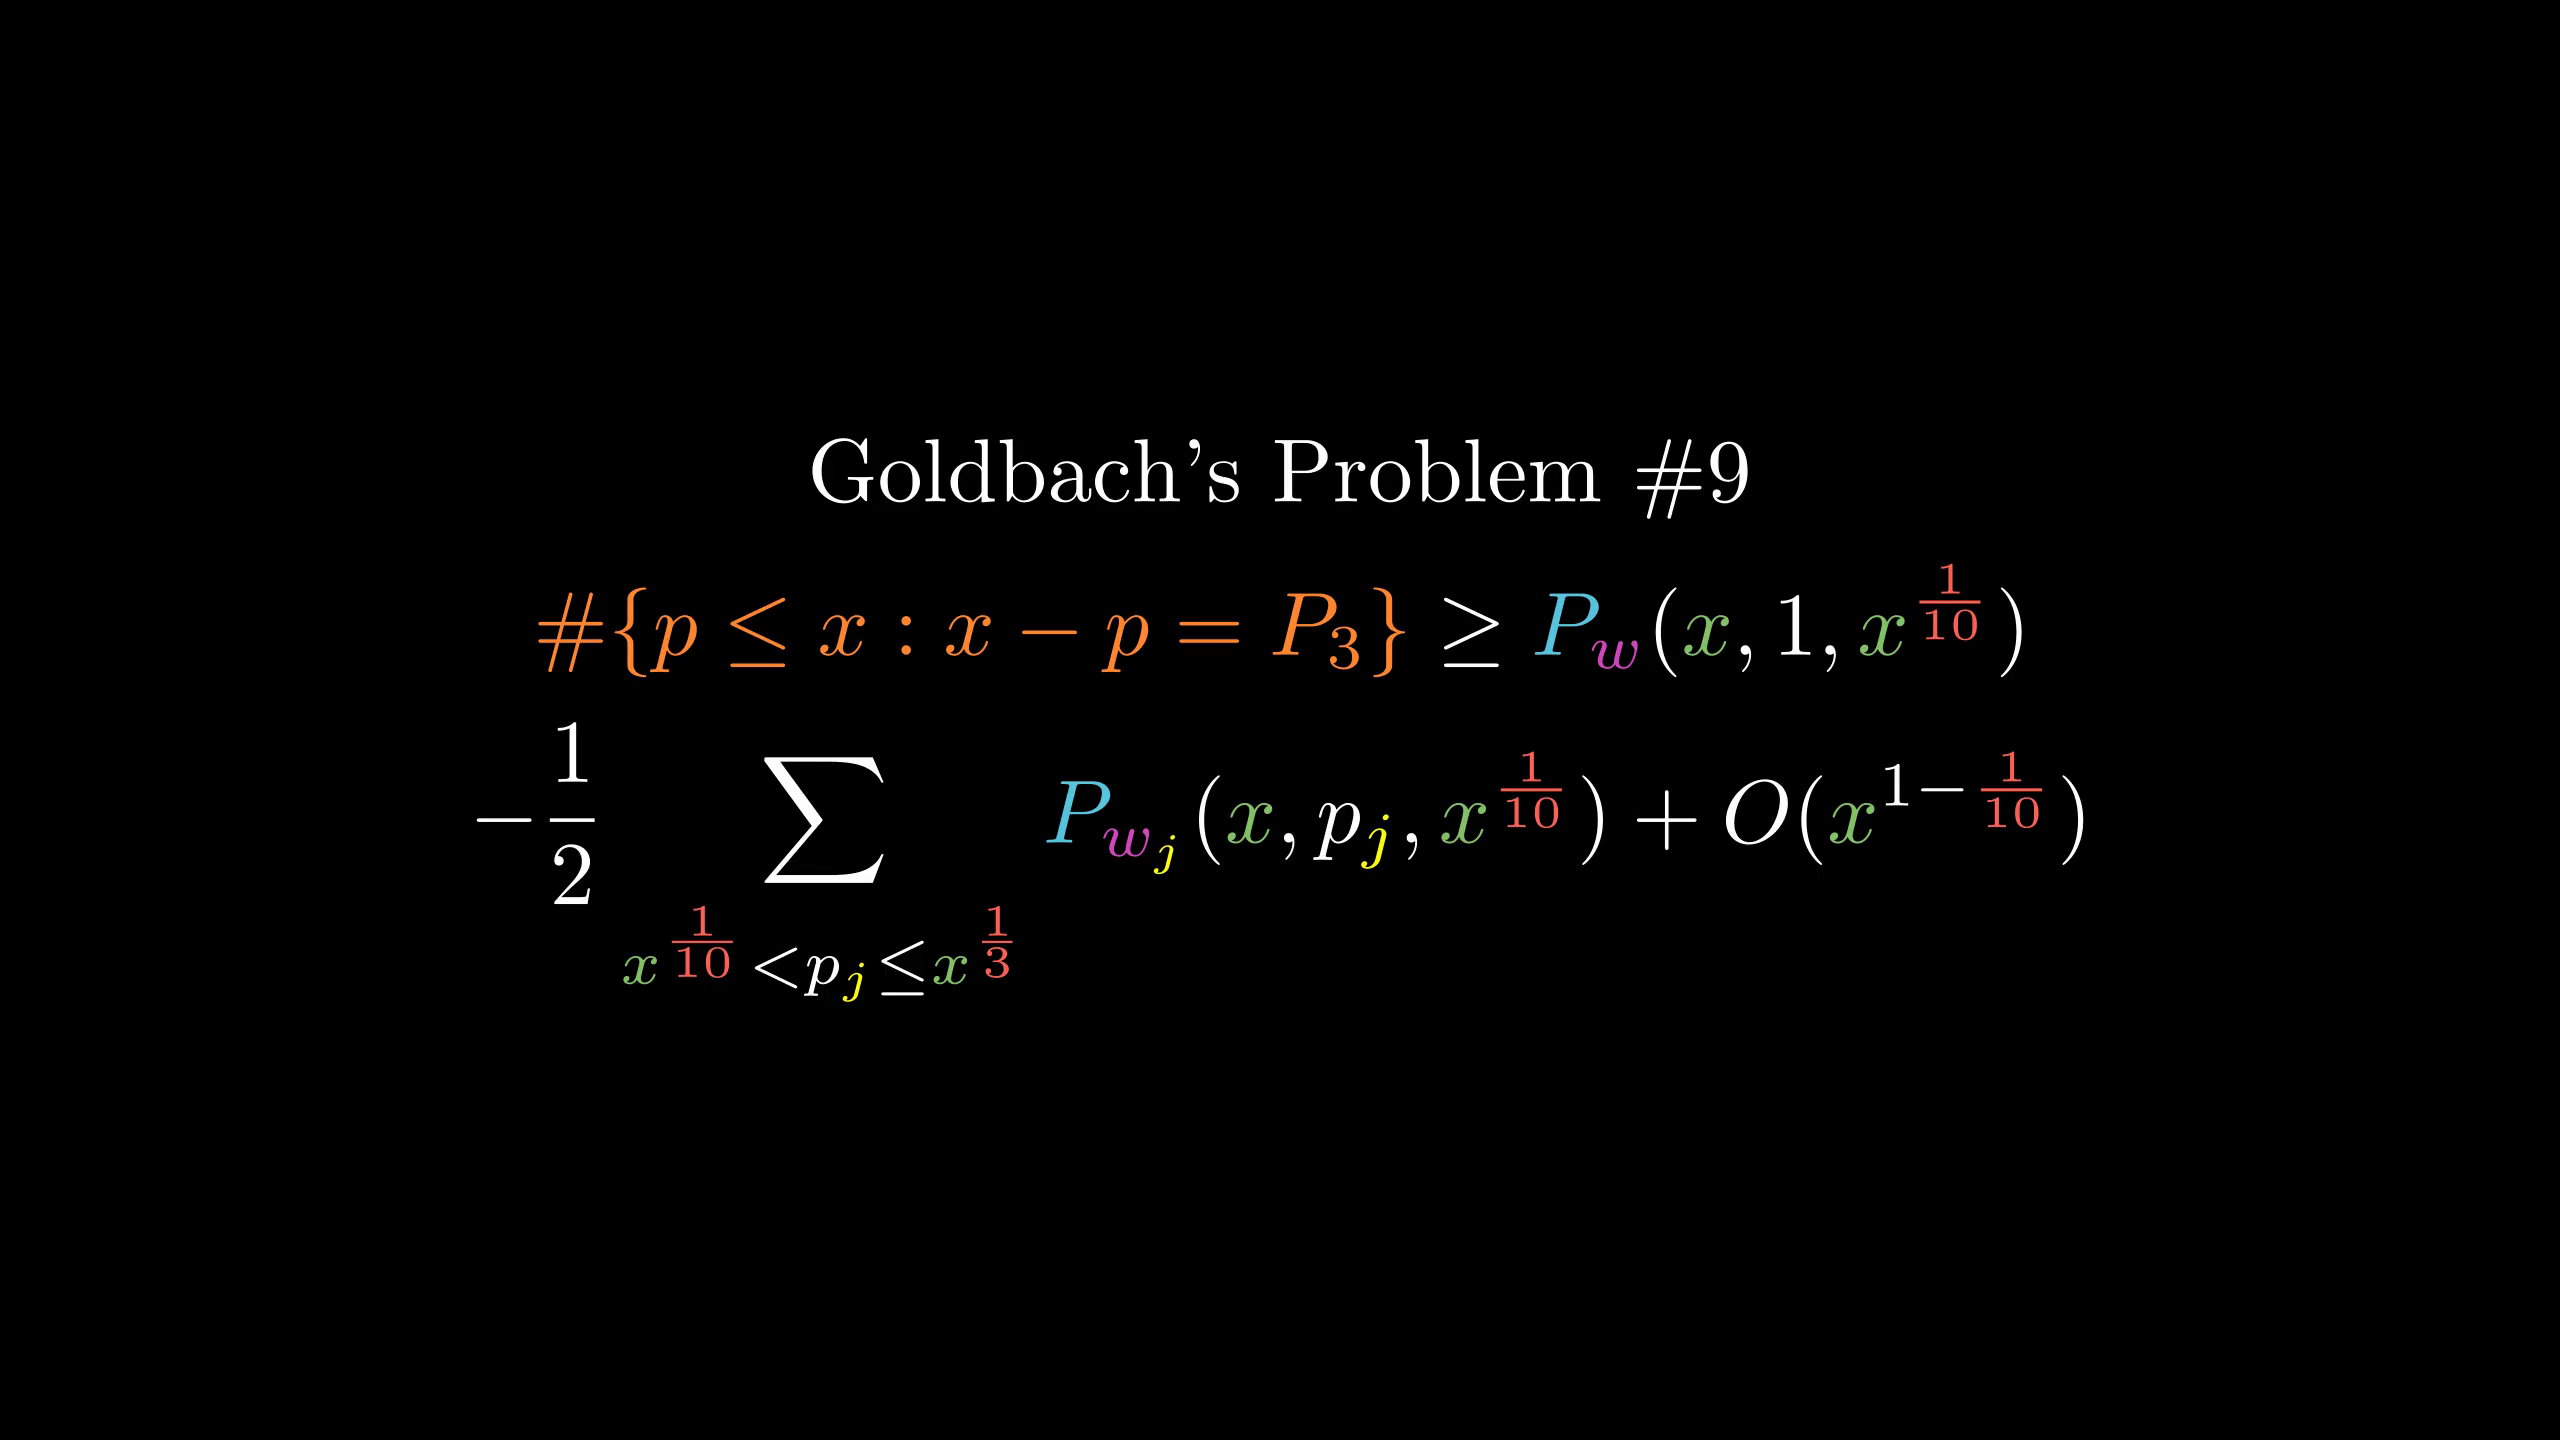
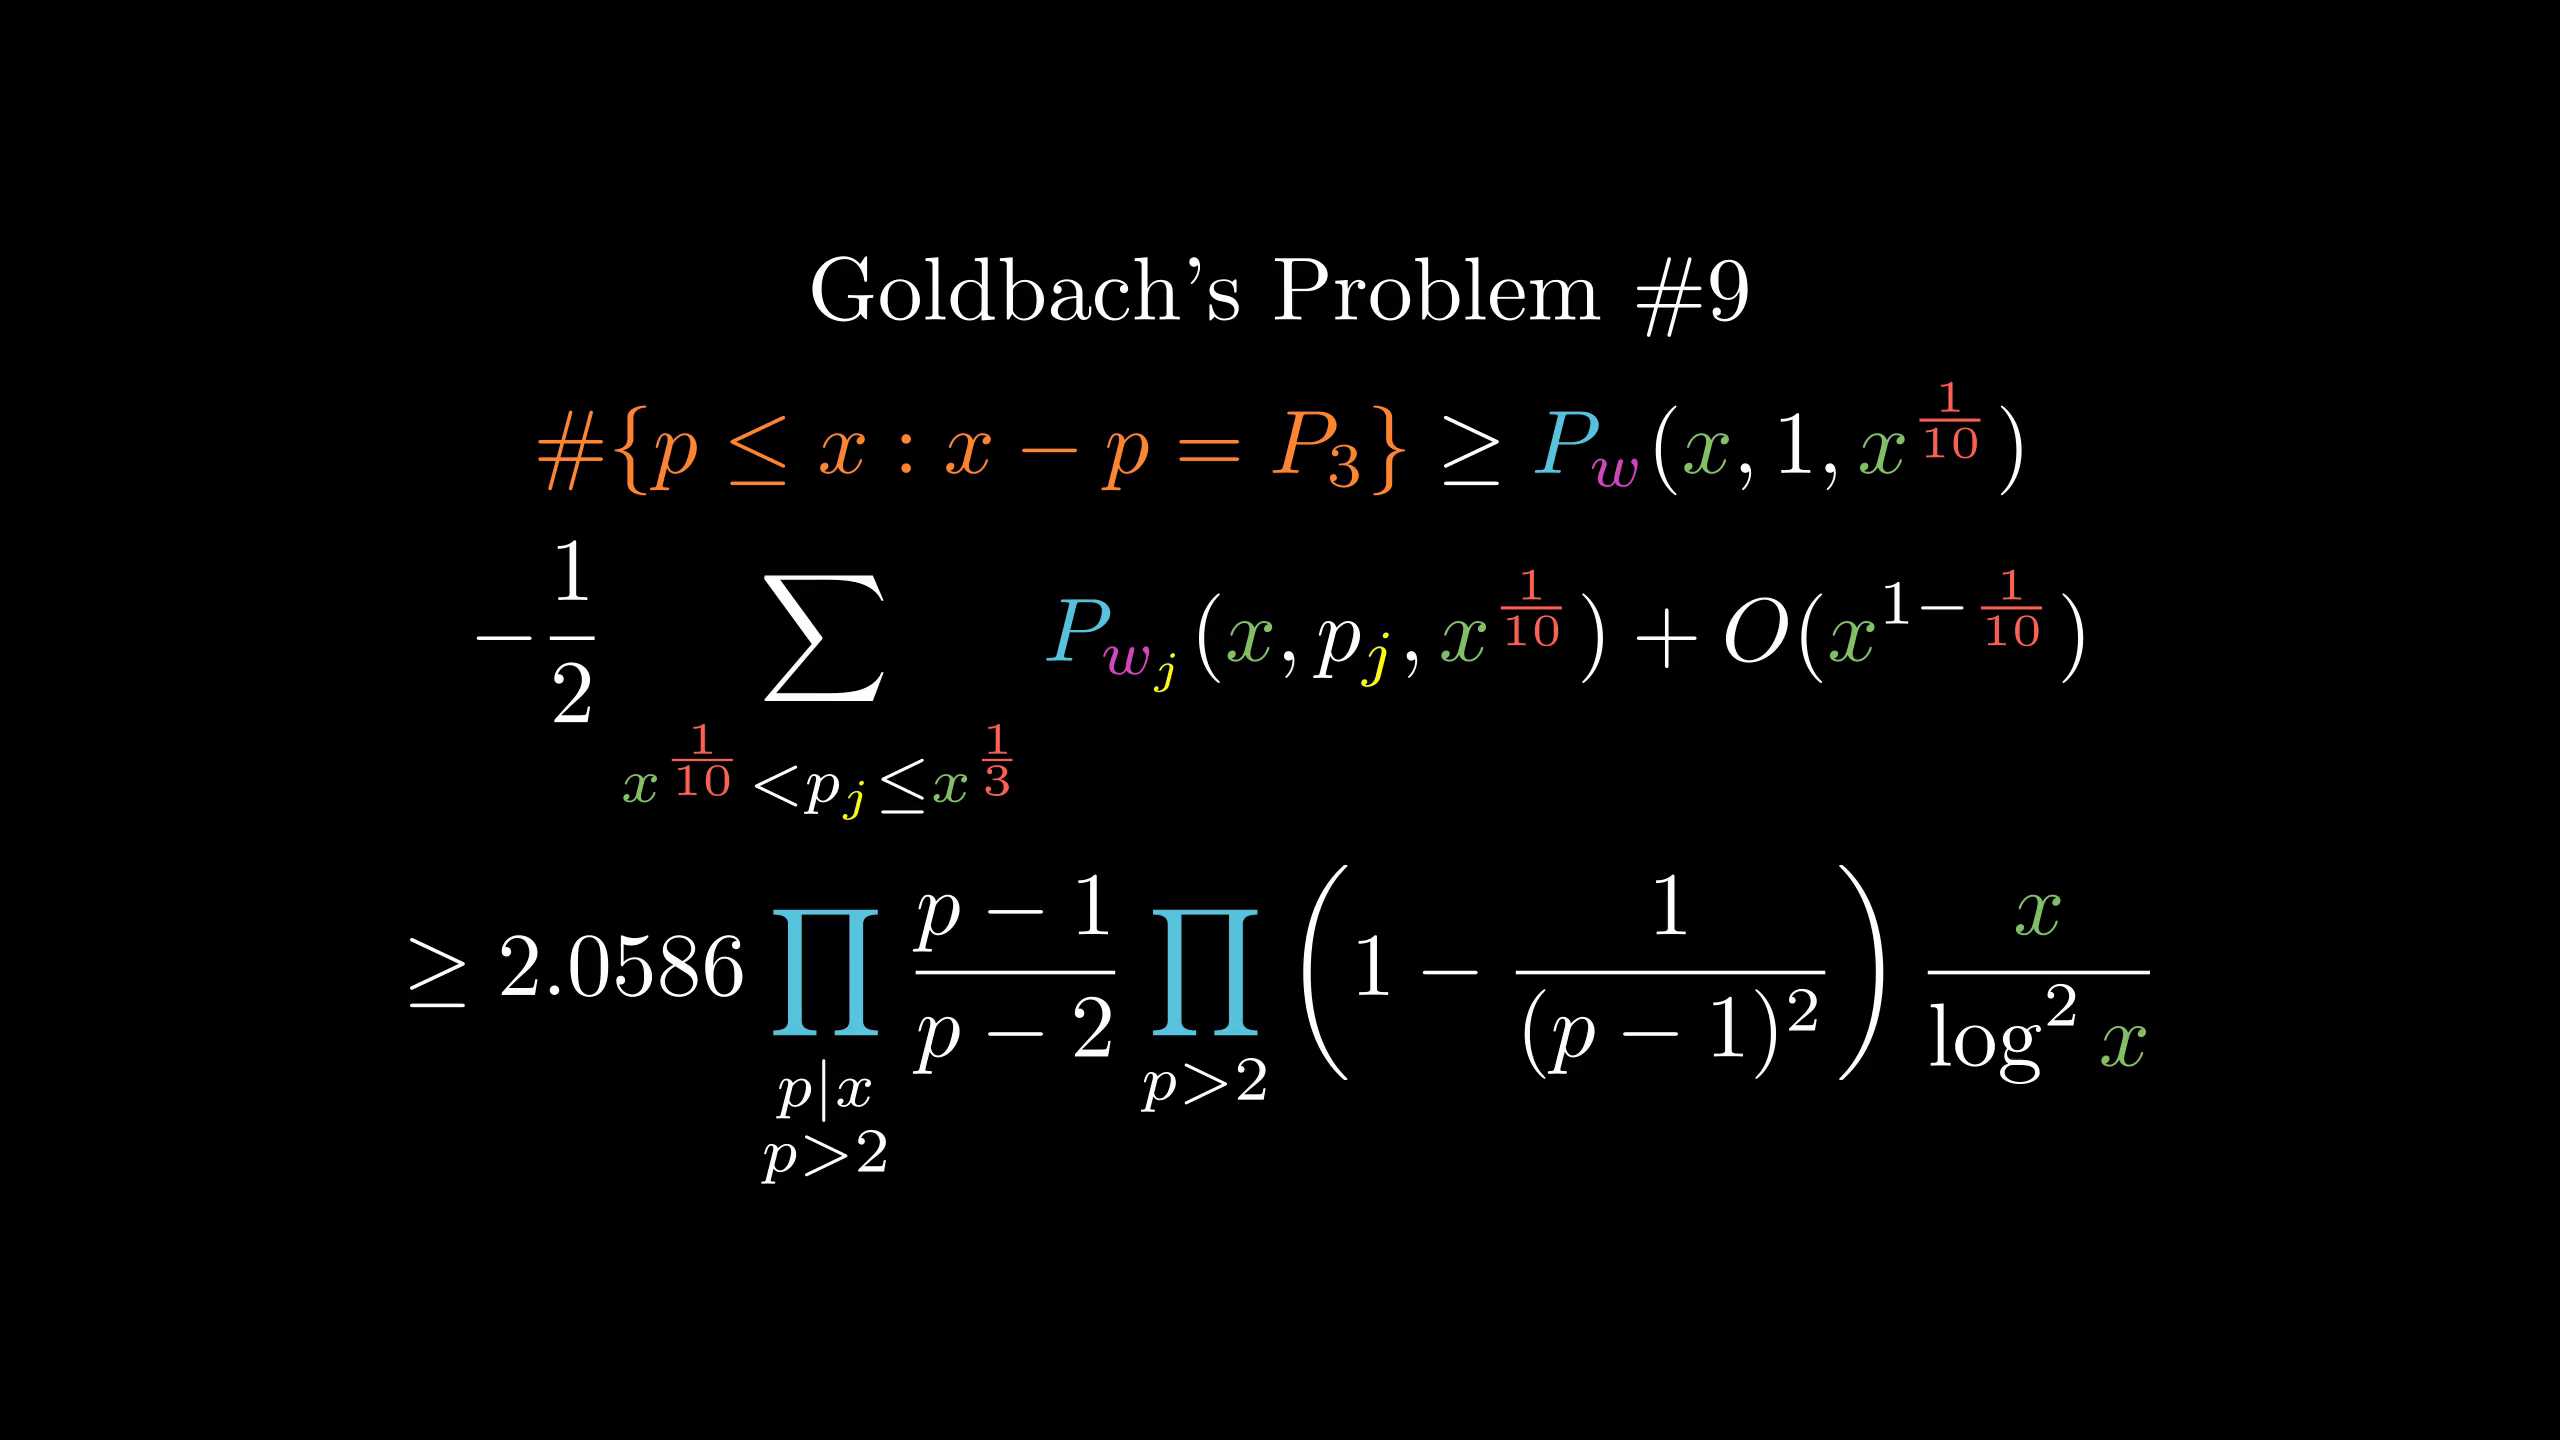
Update cover for 1+3

diff --git a/goldbach/goldbach9.py b/goldbach/goldbach9.py
@@ -7,12 +7,14 @@ class FooScene(Scene):
             r"^{\frac13}":RED,
             r"^{1\over10}":RED,r"\frac1{10}":RED,
             "w":PINK,"_j":YELLOW,"{x}":GREEN,
-            "{P}":BLUE
+            "{P}":BLUE,
+            r"\prod":BLUE
         }
         tit=TextMobject("Goldbach's Problem \#9")
         eqn=TexMobject(r"\#\{p\le x:x-p=P_3\}\ge{P}_w({x},1,{x}^{1\over10})",
                 tex_to_color_map=mp)
         eqn2=TexMobject(r"-\frac12\sum_{{x}^{1\over10}<p_j\le{x}^{\frac13}}{P}_{w_j}({x},p_j,{x}^{1\over10})+O({x}^{1-\frac1{10}})",
                 tex_to_color_map=mp)
-        self.add(VGroup(tit,eqn,eqn2).arrange(DOWN))
+        eqn3=TexMobject(r"\ge2.0586\prod_{\substack{p|x\\p>2}}{p-1\over p-2}\prod_{p>2}\left(1-{1\over(p-1)^2}\right){{x}\over\log^2{x}}",tex_to_color_map=mp)
+        self.add(VGroup(tit,eqn,eqn2,eqn3).arrange(DOWN))
         self.wait()
